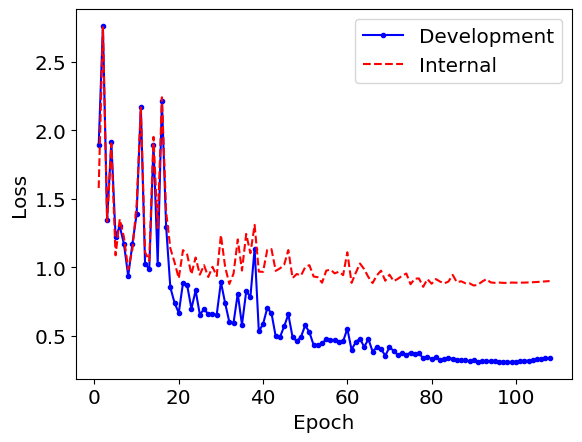
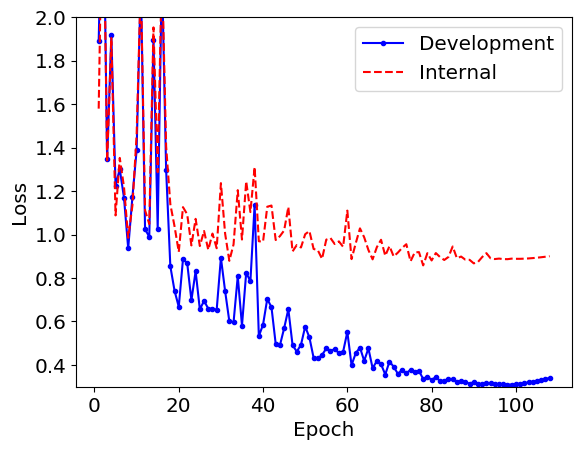
graph for internal test set same scale

diff --git a/utility.py b/utility.py
@@ -288,7 +288,7 @@ def CreateLossPlot(filename, training_legend="Train", validation_legend="Validat
         plt.plot(epoch_count, valid_loss, 'r--')
         plt.legend([training_legend, validation_legend], fontsize= 'x-large')
         
-        #plt.ylim(top=0.7)
+        #plt.ylim(bottom=0.3,top=2)
         plt.xlabel('Epoch', fontsize= 'x-large')
         plt.ylabel('Loss', fontsize= 'x-large')
         plt.xticks(fontsize= 'x-large')
